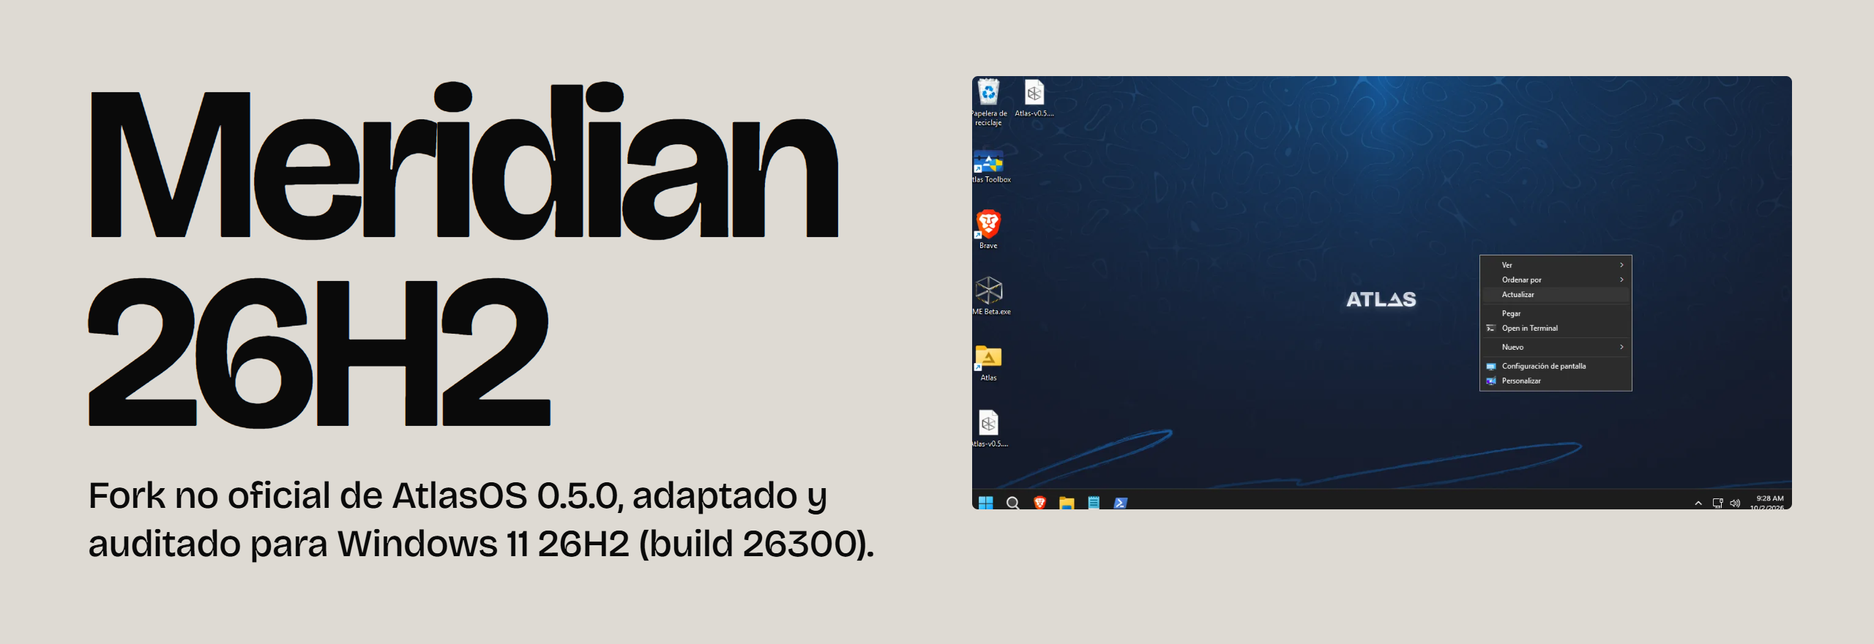
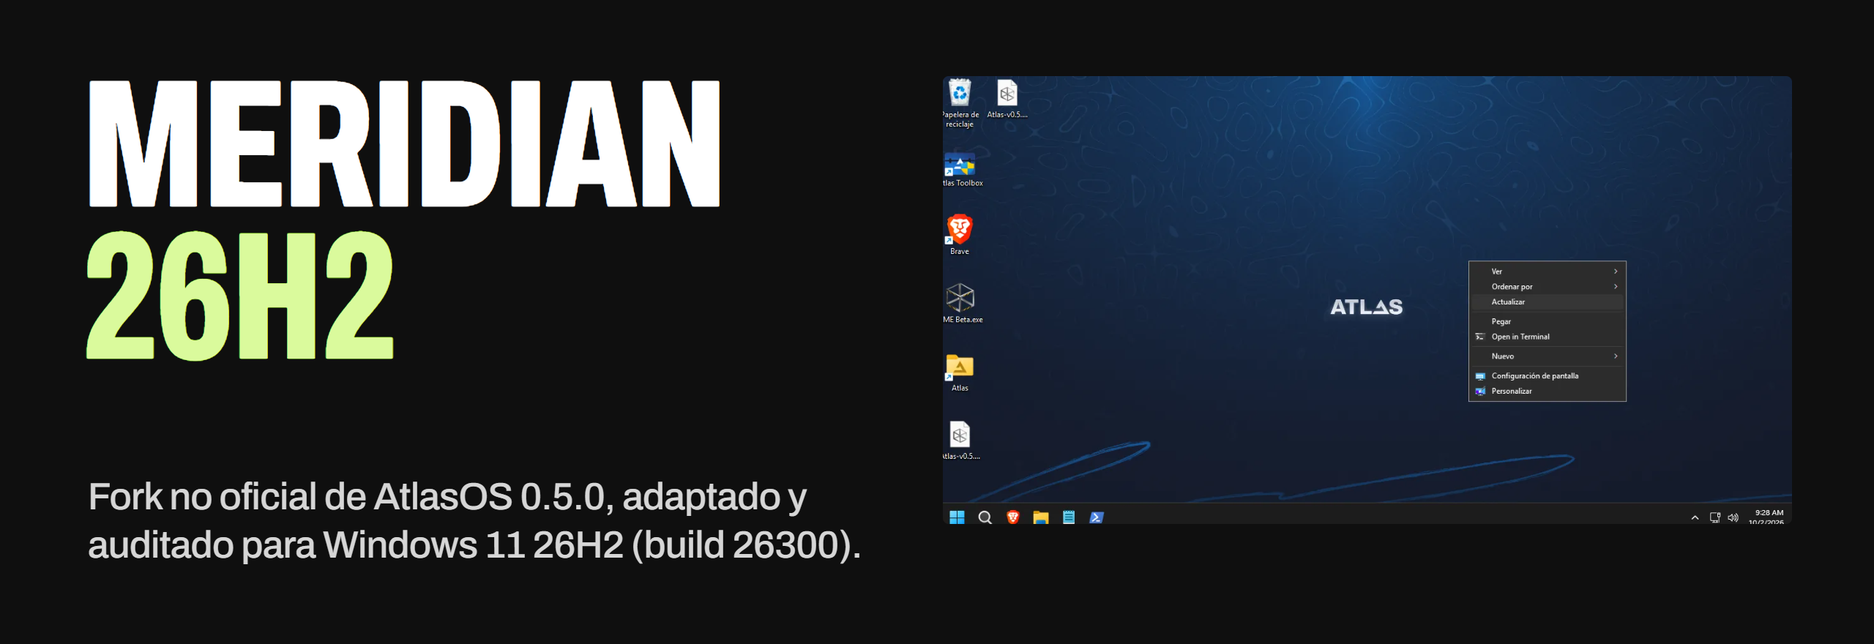
Web oscura y técnica, SEO, contador de descargas y problemas resueltos
- Diseño: paleta Soot and lime (negro, blanco y acento lima) y Archivo
  comprimida en los títulos, con taste-skill. Fragmentos de Windows en modo
  oscuro. Banner y vista previa social regenerados.
- SEO: título y descripción con palabras clave, canonical, Open Graph,
  Twitter Card, JSON-LD SoftwareApplication y FAQPage, sitemap.xml y
  robots.txt. README con palabras clave en español e inglés.
- Descargas: la web suma en vivo las descargas de los .apbx de todas las
  releases (API de GitHub); insignias de descargas y estrellas en el README.
- Problemas conocidos: se quitan F5-9 (CrossDevice), F3-10 (acceso directo
  de Copilot) y F3-9 (usuario estándar), resueltos según el autor.

diff --git a/docs/index.html b/docs/index.html
@@ -3,51 +3,70 @@
 <head>
 <meta charset="utf-8">
 <meta name="viewport" content="width=device-width, initial-scale=1">
-<title>Meridian 26H2 · fork no oficial de AtlasOS para Windows 11 26H2</title>
-<meta name="description" content="Meridian 26H2 es un fork no oficial de AtlasOS 0.5.0, adaptado y auditado para Windows 11 26H2 (build 26300). Rendimiento, privacidad y usabilidad con AME Wizard.">
-<meta property="og:title" content="Meridian 26H2">
-<meta property="og:description" content="Fork no oficial de AtlasOS 0.5.0 para Windows 11 26H2 (build 26300).">
-<meta property="og:image" content="https://zykmm.github.io/meridian-26h2/img/escritorio.webp">
-<meta name="theme-color" content="#dedad3">
+<title>Meridian 26H2: AtlasOS para Windows 11 26H2 · optimizar y debloat (fork no oficial)</title>
+<meta name="description" content="Meridian 26H2 es un fork no oficial de AtlasOS 0.5.0 para Windows 11 26H2 (build 26300). Playbook gratuito de AME Wizard que quita telemetría y bloatware, mejora el rendimiento en juegos y la privacidad. Código abierto, GPLv3.">
+<meta name="keywords" content="AtlasOS 26H2, Atlas OS Windows 11 26H2, Meridian 26H2, debloat Windows 11, optimizar Windows 11, Windows 11 26H2, build 26300, AME Wizard, playbook, privacidad, gaming, telemetría">
+<meta name="author" content="zykmm">
+<meta name="robots" content="index, follow, max-image-preview:large">
+<link rel="canonical" href="https://zykmm.github.io/meridian-26h2/">
+<meta property="og:type" content="website">
+<meta property="og:site_name" content="Meridian 26H2">
+<meta property="og:locale" content="es_ES">
+<meta property="og:url" content="https://zykmm.github.io/meridian-26h2/">
+<meta property="og:title" content="Meridian 26H2: AtlasOS para Windows 11 26H2">
+<meta property="og:description" content="Fork no oficial de AtlasOS 0.5.0 para Windows 11 26H2 (build 26300). Más rápido, más privado, con cada cambio explicado.">
+<meta property="og:image" content="https://zykmm.github.io/meridian-26h2/img/social-preview.png">
+<meta property="og:image:width" content="2560">
+<meta property="og:image:height" content="1280">
+<meta property="og:image:alt" content="Meridian 26H2: fork no oficial de AtlasOS 0.5.0 para Windows 11 26H2">
+<meta name="twitter:card" content="summary_large_image">
+<meta name="twitter:title" content="Meridian 26H2: AtlasOS para Windows 11 26H2">
+<meta name="twitter:description" content="Fork no oficial de AtlasOS 0.5.0 para Windows 11 26H2 (build 26300).">
+<meta name="twitter:image" content="https://zykmm.github.io/meridian-26h2/img/social-preview.png">
+<meta name="theme-color" content="#0f0f0f">
+<script type="application/ld+json">{"@context": "https://schema.org", "@type": "SoftwareApplication", "name": "Meridian 26H2", "alternateName": ["Meridian 26H2 AtlasOS fork", "AtlasOS 26H2 unofficial"], "description": "Fork no oficial de AtlasOS 0.5.0 para Windows 11 26H2 (build 26300): playbook de AME Wizard que optimiza el rendimiento, quita telemetría y bloatware y mejora la privacidad.", "applicationCategory": "UtilitiesApplication", "applicationSubCategory": "Windows optimization playbook", "operatingSystem": "Windows 11 26H2 (build 26300)", "softwareVersion": "1.0.0", "license": "https://www.gnu.org/licenses/gpl-3.0.html", "isAccessibleForFree": true, "offers": {"@type": "Offer", "price": "0", "priceCurrency": "USD"}, "url": "https://zykmm.github.io/meridian-26h2/", "downloadUrl": "https://github.com/zykmm/meridian-26h2/releases", "codeRepository": "https://github.com/zykmm/meridian-26h2", "image": "https://zykmm.github.io/meridian-26h2/img/social-preview.png", "screenshot": "https://zykmm.github.io/meridian-26h2/img/escritorio.webp", "author": {"@type": "Person", "name": "zykmm", "url": "https://github.com/zykmm"}, "isBasedOn": {"@type": "SoftwareSourceCode", "name": "AtlasOS", "codeRepository": "https://github.com/Atlas-OS/Atlas"}, "inLanguage": "es", "keywords": "AtlasOS, Windows 11 26H2, debloat, optimizar Windows 11, AME Wizard, playbook, privacidad, rendimiento, gaming"}</script>
+<script type="application/ld+json">{"@context": "https://schema.org", "@type": "FAQPage", "mainEntity": [{"@type": "Question", "name": "¿Es AtlasOS oficial?", "acceptedAnswer": {"@type": "Answer", "text": "No. Es un fork no oficial del playbook de AtlasOS 0.5.0, sin relación con el equipo de Atlas, adaptado y auditado para Windows 11 26H2 (build 26300). Usa su código bajo la licencia GPLv3."}}, {"@type": "Question", "name": "¿Tiene virus?", "acceptedAnswer": {"@type": "Answer", "text": "Todo el playbook es texto plano en el repositorio de GitHub y cada .apbx se compila a partir de él con GitHub Actions y se publica con su SHA256. Defender puede marcar Remove-Edge.exe por reputación; Meridian lo descarga fijado a una versión y comprueba su hash."}}, {"@type": "Question", "name": "¿Puedo volver atrás?", "acceptedAnswer": {"@type": "Answer", "text": "No hay desinstalador, igual que en AtlasOS. Muchas opciones se cambian después desde la carpeta Atlas o Atlas Toolbox, pero para volver a Windows sin modificar hay que reinstalarlo. Haz una copia de seguridad antes."}}, {"@type": "Question", "name": "¿Funciona en Windows 11 24H2 o 25H2?", "acceptedAnswer": {"@type": "Answer", "text": "No: el asistente solo acepta la build 26300 (Windows 11 26H2). Para 24H2 y 25H2 está el AtlasOS oficial."}}, {"@type": "Question", "name": "¿Qué contraseña pide el archivo .apbx?", "acceptedAnswer": {"@type": "Answer", "text": "Un .apbx es un ZIP renombrado con la contraseña malte, la de todos los playbooks de AME Wizard."}}]}</script>
 <link rel="preconnect" href="https://fonts.googleapis.com">
 <link rel="preconnect" href="https://fonts.gstatic.com" crossorigin>
-<link href="https://fonts.googleapis.com/css2?family=Bricolage+Grotesque:opsz,wght@12..96,400;12..96,500;12..96,600;12..96,700&display=swap" rel="stylesheet">
+<link href="https://fonts.googleapis.com/css2?family=Archivo:wdth,wght@62..125,100..900&display=swap" rel="stylesheet">
 <script>document.documentElement.classList.add('js')</script>
 <style>
 :root {
-  --bg: #dedad3;
-  --surface: #d3cec6;
-  --surface-2: #c6c0b6;
-  --ink: #0a0a0a;
-  --muted: #4f4b45;
-  --accent: #256f82;
-  --accent-ink: #ffffff;
-  --dark: #0a0a0a;
-  --dark-ink: #ededeb;
-  --light: #e9e9e6;
+  --bg: #0f0f0f;
+  --surface: #1a1a1a;
+  --surface-2: #262626;
+  --ink: #ffffff;
+  --muted: #a3a3a3;
+  --accent: #dafa9c;
+  --accent-2: #c6ef74;
+  --accent-ink: #0f0f0f;
+  --dark: #000000;
+  --dark-ink: #f2f2f2;
+  --light: #ffffff;
+  --light-ink: #0f0f0f;
 
   --step-small: clamp(0.875rem, 0.85rem + 0.1vw, 0.9375rem);
   --step-body: clamp(1.0625rem, 1rem + 0.25vw, 1.1875rem);
   --step-lead: clamp(1.375rem, 1.15rem + 0.8vw, 1.875rem);
-  --step-head: clamp(2.25rem, 1.2rem + 3.6vw, 4.5rem);
+  --step-head: clamp(2.5rem, 1.2rem + 5vw, 5.5rem);
   --step-giant: clamp(6rem, 2rem + 13vw, 14rem);
 
   --margin: clamp(16px, 2.2vw, 32px);
   --gap-section: clamp(120px, 14vw, 200px);
   --radius: 4px;
   --ease: cubic-bezier(.2, .7, .2, 1);
-  --font: "Bricolage Grotesque", system-ui, sans-serif;
+  --font: "Archivo", system-ui, sans-serif;
 }
 *, *::before, *::after { box-sizing: border-box; }
 html { -webkit-text-size-adjust: 100%; scroll-behavior: smooth; }
 body {
   margin: 0; background: var(--bg); color: var(--ink);
   font-family: var(--font); font-size: var(--step-body); line-height: 1.5;
-  font-optical-sizing: auto;
+  font-stretch: 100%;
 }
 img { display: block; max-width: 100%; height: auto; }
 a { color: inherit; }
-h1, h2, h3 { margin: 0; font-weight: 600; letter-spacing: -0.035em; line-height: 0.98; }
+h1, h2, h3, .display { margin: 0; font-weight: 800; font-stretch: 62%; text-transform: uppercase; letter-spacing: -0.01em; line-height: 0.86; }
 p { margin: 0; }
 :focus-visible { outline: 3px solid var(--accent); outline-offset: 3px; }
 ::selection { background: var(--accent); color: var(--accent-ink); }
@@ -58,7 +77,7 @@ p { margin: 0; }
   border-radius: var(--radius); border: 0; font: inherit; font-weight: 500; cursor: pointer;
   transition: transform 160ms var(--ease), background-color 160ms var(--ease);
 }
-.button:hover { background: #1d5a6a; }
+.button:hover { background: var(--accent-2); }
 .button:active { transform: scale(.97); }
 .skip { position: absolute; left: -999px; top: 8px; }
 .skip:focus { left: 8px; z-index: 50; background: var(--ink); color: var(--bg); padding: 8px 12px; }
@@ -68,7 +87,7 @@ p { margin: 0; }
   position: fixed; inset: 0 0 auto 0; z-index: 30; display: flex; align-items: center; gap: 24px;
   padding: 14px var(--margin); font-size: 15px; background: var(--bg);
 }
-.wordmark { font-weight: 700; font-size: 18px; letter-spacing: -0.02em; text-decoration: none; margin-right: auto; }
+.wordmark { font-weight: 800; font-stretch: 62%; text-transform: uppercase; font-size: 22px; letter-spacing: 0; text-decoration: none; margin-right: auto; }
 .bar nav { display: flex; gap: 22px; }
 .bar nav a { text-decoration: none; padding: 10px 0; }
 .bar nav a:hover { text-decoration: underline; text-underline-offset: 4px; }
@@ -77,8 +96,8 @@ p { margin: 0; }
 /* ---------- hero: sentence split by a frame ---------- */
 .hero { position: relative; height: 240svh; }
 .hero-stage { position: sticky; top: 0; height: 100svh; overflow: hidden; }
-.hero h1 { font-size: clamp(2.25rem, 3.6vw, 3.75rem); font-weight: 500; line-height: 1; }
-.hero h1 { position: absolute; left: var(--margin); right: var(--margin); top: 50%; transform: translateY(-50%); z-index: 2; display: flex; justify-content: space-between; gap: 40vw; }
+.hero h1 { font-size: clamp(2.75rem, 5.4vw, 6rem); line-height: .86; }
+.hero h1 { position: absolute; left: var(--margin); right: var(--margin); top: 50%; transform: translateY(-50%); z-index: 2; display: flex; justify-content: space-between; gap: 38vw; }
 .hero .h-right { text-align: right; }
 .reel-window { position: absolute; inset: 0; left: 50%; width: 35vw; transform: translateX(-50%); }
 .reel { position: absolute; left: 0; right: 0; top: 0; display: flex; flex-direction: column; gap: 24px; will-change: transform; }
@@ -92,7 +111,7 @@ p { margin: 0; }
 /* ---------- intro ---------- */
 .intro { display: grid; grid-template-columns: repeat(12, 1fr); column-gap: 24px; padding: var(--gap-section) var(--margin) 0; align-items: start; }
 .intro-text { grid-column: 2 / span 4; display: grid; gap: 1.1em; max-width: 34ch; }
-.intro-text h2 { font-size: var(--step-lead); letter-spacing: -0.02em; line-height: 1.1; margin-bottom: .4em; }
+.intro-text h2 { font-size: var(--step-lead); margin-bottom: .3em; }
 .intro-text p:first-of-type { font-weight: 500; }
 .intro-text p + p { color: var(--muted); }
 .intro-figure { grid-column: 7 / span 6; margin: 0; }
@@ -114,15 +133,15 @@ p { margin: 0; }
 .cmd-item {
   display: grid; grid-template-columns: 1fr auto; align-items: center; column-gap: 24px;
   padding: .12em .25em; cursor: pointer; border-radius: var(--radius);
-  font-size: clamp(2rem, 1rem + 3.6vw, 4.5rem); font-weight: 600; letter-spacing: -0.035em; line-height: 1.1;
+  font-size: var(--step-head); font-weight: 800; font-stretch: 62%; text-transform: uppercase; letter-spacing: -0.005em; line-height: 1;
   transition: background-color 140ms var(--ease), color 140ms var(--ease);
 }
 .cmd-item:hover { background: var(--surface); }
 .cmd-item[aria-selected="true"] { background: var(--accent); color: var(--accent-ink); }
-.cmd-keys { display: flex; gap: 6px; font-size: var(--step-body); font-weight: 500; letter-spacing: 0; }
+.cmd-keys { display: flex; gap: 6px; font-size: var(--step-body); font-weight: 600; font-stretch: 100%; letter-spacing: 0; }
 .cmd-keys kbd { font-family: var(--font); display: grid; place-items: center; min-width: 1.6em; height: 1.6em; padding: 0 .25em; background: var(--surface-2); color: var(--ink); border-radius: 3px; }
-.cmd-item[aria-selected="true"] kbd { background: #1d5a6a; color: var(--accent-ink); }
-.cmd-detail { grid-column: 1 / -1; display: none; max-width: 60ch; margin: .4em 0 .35em; font-size: var(--step-body); font-weight: 400; letter-spacing: 0; line-height: 1.5; }
+.cmd-item[aria-selected="true"] kbd { background: #b8e26a; color: var(--accent-ink); }
+.cmd-detail { grid-column: 1 / -1; display: none; max-width: 60ch; margin: .4em 0 .35em; font-size: var(--step-body); font-weight: 400; font-stretch: 100%; text-transform: none; letter-spacing: 0; line-height: 1.5; }
 .cmd-item[aria-selected="true"] .cmd-detail { display: block; }
 .cmd-empty { font-size: var(--step-lead); padding: .5em .25em; }
 .cmd-more { margin-top: 28px; font-size: var(--step-body); }
@@ -131,8 +150,8 @@ p { margin: 0; }
 .showcase { display: grid; grid-template-columns: minmax(0, 1fr) minmax(0, 1fr); margin-top: var(--gap-section); }
 .sc-in, .sc-out { position: relative; min-height: 90svh; padding: 30svh var(--margin) 140px; }
 .sc-in { background: var(--dark); color: var(--dark-ink); }
-.sc-out { background: var(--light); }
-.sc-in .file { overflow-wrap: anywhere; font-size: var(--step-small); color: #b9b4ac; margin-bottom: 12px; padding-left: calc(100% / 12); }
+.sc-out { background: var(--light); color: var(--light-ink); }
+.sc-in .file { overflow-wrap: anywhere; font-size: var(--step-small); color: #a3a3a3; margin-bottom: 12px; padding-left: calc(100% / 12); }
 .sc-in textarea {
   display: block; width: calc(100% - 100% / 12); margin-left: calc(100% / 12); min-height: 300px; resize: vertical;
   background: transparent; color: var(--dark-ink); border: 0; padding: 0; font-family: ui-monospace, Consolas, monospace; /* taste-skill-ignore: data-ui fragment / literal code */
@@ -142,51 +161,51 @@ p { margin: 0; }
 .sc-title { position: absolute; bottom: 32px; font-size: var(--step-head); }
 .sc-in .sc-title { left: var(--margin); }
 .sc-out .sc-title { right: var(--margin); text-align: right; }
-.regedit { width: min(100%, 520px); font: 14px/1.4 "Segoe UI", system-ui, sans-serif; background: #ffffff; color: #1b1b1b; border: 1px solid #c9c9c9; border-radius: 6px; overflow: hidden; } /* taste-skill-ignore: data-ui fragment / literal code */
-.regedit .re-path { padding: 8px 12px; background: #f3f3f3; border-bottom: 1px solid #dcdcdc; word-break: break-all; } /* taste-skill-ignore: data-ui fragment / literal code */
+.regedit { width: min(100%, 520px); font: 14px/1.4 "Segoe UI", system-ui, sans-serif; background: #202020; color: #f0f0f0; border: 1px solid #3a3a3a; border-radius: 6px; overflow: hidden; } /* taste-skill-ignore: data-ui fragment / literal code */
+.regedit .re-path { padding: 8px 12px; background: #2b2b2b; border-bottom: 1px solid #3a3a3a; word-break: break-all; } /* taste-skill-ignore: data-ui fragment / literal code */
 .regedit table { width: 100%; border-collapse: collapse; }
 .regedit th, .regedit td { text-align: left; padding: 7px 12px; font-weight: 400; }
-.regedit th { color: #5e5e5e; border-bottom: 1px solid #e5e5e5; font-size: 13px; } /* taste-skill-ignore: data-ui fragment / literal code */
-.regedit tr.hl td { background: #cfe3ea; }
+.regedit th { color: #a0a0a0; border-bottom: 1px solid #333333; font-size: 13px; } /* taste-skill-ignore: data-ui fragment / literal code */
+.regedit tr.hl td { background: #0e3a55; }
 .regedit + .regedit { margin-top: 16px; }
-.re-empty { padding: 14px 12px; color: #8a1c1c; }
+.re-empty { padding: 14px 12px; color: #ff9a8a; }
 
 /* ---------- how it works: one card, four fields ---------- */
 .how { display: grid; grid-template-columns: repeat(4, 1fr); margin-top: 0; }
 .how ol { display: contents; list-style: none; }
 .field { position: relative; min-height: 84svh; padding: var(--margin); }
 .field:nth-child(1) { background: var(--surface); }
-.field:nth-child(2) { background: #b9b2a6; }
-.field:nth-child(3) { background: #3b3834; color: var(--dark-ink); }
+.field:nth-child(2) { background: var(--light); color: var(--light-ink); }
+.field:nth-child(3) { background: var(--dark); color: var(--dark-ink); }
 .field:nth-child(4) { background: var(--accent); color: var(--accent-ink); }
-.how h2 { font-size: var(--step-lead); font-weight: 700; letter-spacing: -0.02em; line-height: 1.1; }
+.how h2 { font-size: var(--step-lead); }
 .how-card {
   position: absolute; top: 38%; left: 50%; width: min(260px, calc(100% - 2 * var(--margin))); transform: translateX(-50%);
-  font: 14px/1.45 "Segoe UI", system-ui, sans-serif; background: #fbfaf8; color: #1b1b1b; border: 1px solid #cfcac2; border-radius: 6px; padding: 14px; /* taste-skill-ignore: data-ui fragment / literal code */
+  font: 14px/1.45 "Segoe UI", system-ui, sans-serif; background: #2b2b2b; color: #f3f3f3; border: 1px solid #3d3d3d; border-radius: 6px; padding: 14px; /* taste-skill-ignore: data-ui fragment / literal code */
   transition: transform 150ms var(--ease);
 }
 .field:hover .how-card { transform: translate(-50%, -6px); }
 .how-card b { display: block; font-weight: 600; margin-bottom: 6px; word-break: break-word; }
 .how-card ul { list-style: none; margin: 0; padding: 0; display: grid; gap: 4px; }
 .how-card li { display: flex; justify-content: space-between; gap: 8px; }
-.how-card .ok { color: #1a7f37; }
-.how-card .meta { color: #5e5e5e; }
-.how-card .bar-p { height: 6px; background: #e6e2dc; border-radius: 3px; margin: 10px 0 6px; overflow: hidden; }
-.how-card .bar-p i { display: block; height: 100%; width: 100%; background: #1a7f37; }
+.how-card .ok { color: #6ccb5f; }
+.how-card .meta { color: #a6a6a6; }
+.how-card .bar-p { height: 6px; background: #3d3d3d; border-radius: 3px; margin: 10px 0 6px; overflow: hidden; }
+.how-card .bar-p i { display: block; height: 100%; width: 100%; background: #6ccb5f; }
 .clause { position: absolute; left: var(--margin); right: var(--margin); bottom: 28px; font-size: var(--step-lead); line-height: 1.15; letter-spacing: -0.02em; font-weight: 500; }
 
 /* ---------- stats: figure set by the visitor ---------- */
 .stats { position: relative; min-height: 88svh; padding: var(--gap-section) var(--margin) 48px; display: grid; grid-template-columns: repeat(12, 1fr); column-gap: 24px; grid-template-rows: auto auto 1fr auto; }
 .stats h2 { grid-column: 1 / span 7; font-size: var(--step-head); }
-.build-ctl { grid-column: 1 / span 5; margin-top: 28px; width: min(100%, 400px); font: 15px/1.4 "Segoe UI", system-ui, sans-serif; background: #fbfaf8; border: 1px solid #cfcac2; border-radius: 6px; padding: 14px; } /* taste-skill-ignore: data-ui fragment / literal code */
-.build-ctl label { display: block; margin-bottom: 8px; color: #3a3a3a; }
-.build-ctl input { width: 100%; height: 44px; font: 600 20px "Segoe UI", system-ui, sans-serif; padding: 0 12px; border: 1px solid #b9b4ac; border-radius: 4px; background: #fff; color: #111; } /* taste-skill-ignore: data-ui fragment / literal code */
+.build-ctl { grid-column: 1 / span 5; margin-top: 28px; width: min(100%, 400px); font: 15px/1.4 "Segoe UI", system-ui, sans-serif; background: #202020; color: #f0f0f0; border: 1px solid #3a3a3a; border-radius: 6px; padding: 14px; } /* taste-skill-ignore: data-ui fragment / literal code */
+.build-ctl label { display: block; margin-bottom: 8px; color: #c8c8c8; }
+.build-ctl input { width: 100%; height: 44px; font: 600 20px "Segoe UI", system-ui, sans-serif; padding: 0 12px; border: 1px solid #4a4a4a; border-bottom: 2px solid var(--accent); border-radius: 4px; background: #2b2b2b; color: #ffffff; } /* taste-skill-ignore: data-ui fragment / literal code */
 .reqs { grid-column: 8 / span 5; grid-row: 1 / span 2; align-self: start; margin: 0; padding: 0; list-style: none; display: grid; gap: 4px; max-width: 46ch; }
 .reqs li { padding: 0 0 14px; }
 .reqs b { font-weight: 500; }
-.figure { grid-column: 1 / span 8; grid-row: 4; align-self: end; display: flex; align-items: baseline; gap: .12em; font-size: var(--step-giant); font-weight: 700; line-height: .8; letter-spacing: -0.05em; font-variant-numeric: tabular-nums; }
-.figure small { font-size: var(--step-lead); letter-spacing: -0.01em; font-weight: 600; }
-.figure.no { color: #8a1c1c; }
+.figure { grid-column: 1 / span 8; grid-row: 4; align-self: end; display: flex; align-items: baseline; gap: .12em; font-size: var(--step-giant); font-weight: 800; font-stretch: 62%; line-height: .8; letter-spacing: -0.01em; font-variant-numeric: tabular-nums; }
+.figure small { font-size: var(--step-lead); text-transform: uppercase; letter-spacing: 0; font-weight: 800; color: var(--accent); }
+.figure.no, .figure.no small { color: #ff7a66; }
 .verdict { grid-column: 9 / span 4; grid-row: 4; align-self: end; max-width: 32ch; }
 
 /* ---------- faq ---------- */
@@ -210,19 +229,19 @@ p { margin: 0; }
 .foot { display: grid; grid-template-columns: repeat(12, 1fr); gap: 8px; padding: var(--gap-section) 10px 10px; }
 .tile { background: var(--surface); border-radius: var(--radius); padding: 20px; min-height: 220px; position: relative; }
 .t-statement { grid-column: 1 / span 4; display: flex; flex-direction: column; justify-content: space-between; gap: 24px; }
-.t-claim { font-size: var(--step-lead); font-weight: 400; line-height: 1.2; letter-spacing: -0.015em; }
+.t-claim { font-size: var(--step-lead); line-height: .95; }
 .t-statement .legal { font-size: var(--step-small); color: var(--muted); display: grid; gap: .5em; }
 .t-nav { grid-column: 5 / span 3; }
 .t-nav ul { list-style: none; margin: 0; padding: 0; display: grid; gap: 6px; }
 .t-nav a, .t-mail a { text-decoration: none; }
 .t-nav a:hover, .t-mail a:hover { text-decoration: underline; text-underline-offset: 4px; }
 .t-ver { grid-column: 8 / span 2; display: flex; flex-direction: column; justify-content: space-between; }
-.t-ver p:first-child { font-size: var(--step-lead); letter-spacing: -0.015em; }
+.t-ver p:first-child { font-size: var(--step-lead); font-weight: 800; font-stretch: 62%; text-transform: uppercase; }
 .t-mail { grid-column: 10 / span 3; display: flex; flex-direction: column; justify-content: flex-end; }
 .t-word { grid-column: 1 / span 8; min-height: 320px; background: var(--ink); color: var(--bg); display: grid; place-items: center; }
-.t-word p { font-size: var(--step-giant); font-weight: 700; letter-spacing: -0.05em; line-height: .85; text-align: center; }
-.t-go { grid-column: 9 / span 4; min-height: 320px; background: var(--accent); color: var(--accent-ink); text-decoration: none; font-size: var(--step-lead); font-weight: 500; letter-spacing: -0.02em; line-height: 1.1; transition: background-color 160ms var(--ease); }
-.t-go:hover { background: #1d5a6a; }
+.t-word p { font-size: var(--step-giant); font-weight: 800; font-stretch: 62%; text-transform: uppercase; letter-spacing: -0.01em; line-height: .85; text-align: center; }
+.t-go { grid-column: 9 / span 4; min-height: 320px; background: var(--accent); color: var(--accent-ink); text-decoration: none; font-size: var(--step-lead); font-weight: 800; font-stretch: 62%; text-transform: uppercase; line-height: .95; transition: background-color 160ms var(--ease); }
+.t-go:hover { background: var(--accent-2); }
 .t-go svg { position: absolute; right: 20px; bottom: 20px; width: 64px; height: 64px; transition: transform 200ms var(--ease); }
 .t-go:hover svg { transform: translate(4px, -4px); }
 
@@ -242,7 +261,7 @@ p { margin: 0; }
   .bar nav { display: none; }
   .hero { height: auto; }
   .hero-stage { position: relative; height: auto; overflow: visible; padding: 96px var(--margin) 56px; }
-  .hero h1 { position: static; transform: none; display: block; font-size: clamp(2.25rem, 7vw, 4rem); font-weight: 600; }
+  .hero h1 { position: static; transform: none; display: block; font-size: clamp(2.75rem, 10vw, 5.5rem); }
   .hero h1 span { display: block; }
   .hero .h-right { margin-top: 20px; }
   .reel-window { position: relative; left: auto; width: auto; transform: none; margin-top: 20px; }
@@ -422,7 +441,7 @@ p { margin: 0; }
   </div>
   <div class="sc-out">
     <div id="regout" data-ui aria-live="polite"></div>
-    <p class="sc-title" aria-hidden="true" style="font-weight:600;letter-spacing:-0.035em;line-height:.98">es lo que aplica</p>
+    <p class="sc-title display" aria-hidden="true">es lo que aplica</p>
   </div>
 </section>
 
@@ -507,7 +526,7 @@ p { margin: 0; }
     </details>
     <details name="faq">
       <summary>¿Tiene virus?<span class="plus" aria-hidden="true"></span></summary>
-      <div class="answer"><p>Todo el playbook es texto plano en este repositorio y cada <code>.apbx</code> se compila a partir de él. Cada release publica su SHA256.</p><p>Un aviso honesto: Defender puede marcar <code>Remove-Edge.exe</code> como <code>Trojan:Win32/Yomal!rfn</code>. Es una detección por reputación típica de los ejecutables PyInstaller. Meridian lo descarga fijado a una versión y comprueba su hash antes de ejecutarlo.</p></div>
+      <div class="answer"><p>Todo el playbook es texto plano en este repositorio, y GitHub Actions compila cada versión a partir de él. Cada release publica su SHA256.</p><p>Un aviso honesto: Defender puede marcar <code>Remove-Edge.exe</code> como <code>Trojan:Win32/Yomal!rfn</code>. Es una detección por reputación típica de los ejecutables PyInstaller. Meridian lo descarga fijado a una versión y comprueba su hash antes de ejecutarlo.</p></div>
     </details>
     <details name="faq">
       <summary>¿Puedo volver atrás?<span class="plus" aria-hidden="true"></span></summary>
@@ -523,7 +542,7 @@ p { margin: 0; }
     </details>
     <details name="faq">
       <summary>¿Hay problemas conocidos?<span class="plus" aria-hidden="true"></span></summary>
-      <div class="answer"><p>Sí, y están apuntados: Windows puede reinstalar CrossDevice en un segundo reinicio; el acceso directo de Copilot en la barra puede volver tras otro arranque; con una cuenta de usuario estándar, el script de usuarios nuevos pide elevación; y Atlas Toolbox 0.1.13 tiene fallos propios en algunos estados.</p></div>
+      <div class="answer"><p>Uno, y no es de Meridian: Atlas Toolbox 0.1.13 tiene fallos propios al mostrar algunos estados (Terminals, Mitigations, indexación). Lo que aplica el playbook es correcto.</p><p>El otro aviso es el de Defender con <code>Remove-Edge.exe</code>, explicado en «¿Tiene virus?».</p></div>
     </details>
     <details name="faq">
       <summary>¿Dónde reporto un error?<span class="plus" aria-hidden="true"></span></summary>
@@ -552,7 +571,7 @@ p { margin: 0; }
   </nav>
   <div class="tile t-ver">
     <p>v1.0.0</p>
-    <p>Build 26300<br>Base: AtlasOS 0.5.0</p>
+    <p>Build 26300<br>Base: AtlasOS 0.5.0<br><span id="dl-count" hidden></span></p>
   </div>
   <div class="tile t-mail">
     <a href="https://github.com/zykmm/meridian-26h2/issues">github.com/zykmm/<wbr>meridian-26h2/issues</a>
@@ -653,6 +672,17 @@ p { margin: 0; }
     ver.textContent = msg;
   }
   b.addEventListener('input', check); check();
+
+  /* downloads: sum of .apbx downloads across all releases (GitHub API) */
+  fetch('https://api.github.com/repos/zykmm/meridian-26h2/releases?per_page=100')
+    .then(r => r.ok ? r.json() : Promise.reject())
+    .then(rs => {
+      const n = rs.flatMap(r => r.assets).filter(a => a.name.endsWith('.apbx')).reduce((s, a) => s + a.download_count, 0);
+      const el = document.getElementById('dl-count');
+      el.textContent = n.toLocaleString('es') + (n === 1 ? ' descarga' : ' descargas');
+      el.hidden = false;
+    })
+    .catch(() => {});
 
   /* entrances */
   const targets = document.querySelectorAll('[data-rise], .field, .faq details, .tile');

diff --git a/docs/banner.html b/docs/banner.html
@@ -1,14 +1,14 @@
 <!DOCTYPE html><html><head><meta charset="utf-8">
-<link href="https://fonts.googleapis.com/css2?family=Bricolage+Grotesque:opsz,wght@12..96,500;12..96,700&display=swap" rel="stylesheet">
+<link href="https://fonts.googleapis.com/css2?family=Archivo:wdth,wght@62..125,100..900&display=swap" rel="stylesheet">
 <style>
 html,body{margin:0}
-body{width:1280px;height:var(--h);background:#dedad3;color:#0a0a0a;font-family:"Bricolage Grotesque",sans-serif;overflow:hidden;position:relative}
-.name{position:absolute;left:56px;top:var(--nt);font-size:var(--ns);font-weight:700;letter-spacing:-0.05em;line-height:.86;margin:0}
-.sub{position:absolute;left:60px;bottom:52px;font-size:26px;font-weight:500;letter-spacing:-0.015em;line-height:1.25;margin:0;max-width:560px}
+body{width:1280px;height:var(--h);background:#0f0f0f;color:#ffffff;font-family:"Archivo",sans-serif;overflow:hidden;position:relative}
+.name{position:absolute;left:56px;top:var(--nt);font-size:var(--ns);font-weight:800;font-stretch:62%;font-variation-settings:"wdth" 62;text-transform:uppercase;letter-spacing:-0.01em;line-height:.84;margin:0}.name span{color:#dafa9c}
+.sub{position:absolute;left:60px;bottom:52px;font-size:26px;font-weight:500;color:#d6d6d6;letter-spacing:-0.015em;line-height:1.25;margin:0;max-width:560px}
 .shot{position:absolute;right:56px;top:var(--st);width:var(--sw);border-radius:4px;display:block}
 .tag{display:var(--tagd,inline-block);position:absolute;right:56px;bottom:52px;background:#256f82;color:#fff;font-size:22px;font-weight:500;padding:10px 16px;border-radius:4px}
 </style></head><body>
-<p class="name">Meridian<br>26H2</p>
+<p class="name">Meridian<br><span>26H2</span></p>
 <p class="sub">Fork no oficial de AtlasOS 0.5.0, adaptado y auditado para Windows 11 26H2 (build 26300).</p>
 <img class="shot" src="img/escritorio.webp" alt="">
 <span class="tag">build 26300</span>

diff --git a/README.md b/README.md
@@ -1,10 +1,12 @@
 <p align="center">
-  <a href="https://zykmm.github.io/meridian-26h2/"><img src="docs/img/banner.png" alt="Meridian 26H2: fork no oficial de AtlasOS 0.5.0, adaptado y auditado para Windows 11 26H2 (build 26300)" width="100%"></a>
+  <a href="https://zykmm.github.io/meridian-26h2/"><img src="docs/img/banner.png" alt="Meridian 26H2: AtlasOS para Windows 11 26H2 (build 26300), fork no oficial para optimizar y hacer debloat de Windows 11" width="100%"></a>
 </p>
 
 <p align="center">
   <a href="https://github.com/zykmm/meridian-26h2/releases"><img alt="Última versión" src="https://img.shields.io/github/v/release/zykmm/meridian-26h2?include_prereleases&style=flat-square&label=versi%C3%B3n&color=256f82"></a>
   <a href="https://github.com/zykmm/meridian-26h2/actions/workflows/build.yml"><img alt="Compilación" src="https://img.shields.io/github/actions/workflow/status/zykmm/meridian-26h2/build.yml?style=flat-square&label=compilaci%C3%B3n"></a>
+  <a href="https://github.com/zykmm/meridian-26h2/releases"><img alt="Descargas" src="https://img.shields.io/github/downloads/zykmm/meridian-26h2/total?style=flat-square&label=descargas&color=dafa9c&labelColor=0f0f0f"></a>
+  <a href="https://github.com/zykmm/meridian-26h2/stargazers"><img alt="Estrellas" src="https://img.shields.io/github/stars/zykmm/meridian-26h2?style=flat-square&label=estrellas&color=0f0f0f"></a>
   <img alt="Windows 11 26H2" src="https://img.shields.io/badge/Windows%2011-26H2%20%C2%B7%20build%2026300-0a0a0a?style=flat-square">
   <a href="LICENSE"><img alt="Licencia GPLv3" src="https://img.shields.io/badge/licencia-GPLv3-0a0a0a?style=flat-square"></a>
 </p>
@@ -20,6 +22,8 @@
 > **Meridian 26H2 es un fork NO oficial de [AtlasOS](https://github.com/Atlas-OS/Atlas).** No pertenece al equipo de Atlas ni está respaldado por él. Los errores de Meridian se reportan [aquí](https://github.com/zykmm/meridian-26h2/issues), nunca a Atlas. Si usas Windows 11 24H2 o 25H2, instala el [AtlasOS oficial](https://atlasos.net).
 
 ## Qué es
+
+**Meridian 26H2 es la forma de usar AtlasOS en Windows 11 26H2.** Sirve para optimizar Windows 11, quitar bloatware y telemetría (*debloat*), ganar rendimiento en juegos y mejorar la privacidad, sin reinstalar el sistema.
 
 AtlasOS 0.5.0 se publicó para Windows 11 24H2 y 25H2. **Meridian 26H2** toma ese playbook (commit [`6c26aab`](https://github.com/Atlas-OS/Atlas/commit/6c26aab)) y lo lleva a **Windows 11 26H2 (build 26300)**, con la misma idea: más rendimiento, más privacidad y menos molestias, sin romper lo que hace falta.
 
@@ -70,9 +74,6 @@ powershell -NoProfile -ExecutionPolicy Bypass -File .\verificar-26h2.ps1 -Nombre
 
 ## Problemas conocidos
 
-- **CrossDevice puede volver.** Windows lo reinstala en algunos equipos tras un segundo reinicio (F5-9).
-- **El acceso directo de Copilot en la barra de tareas** puede reaparecer tras otro arranque (F3-10).
-- **Usuario estándar:** al crear una cuenta sin permisos de administrador, el script de usuarios nuevos pide elevación (F3-9).
 - **Atlas Toolbox 0.1.13** tiene fallos propios al mostrar algunos estados (Terminals, Mitigations, indexación). No son del playbook (F5-2).
 - **Defender y `Remove-Edge.exe`:** Defender puede detectarlo como `Trojan:Win32/Yomal!rfn`, una detección por reputación habitual en ejecutables PyInstaller. Durante la instalación no afecta. Si después ejecutas «Remove Edge» desde la carpeta Atlas con Defender activo, puede fallar. Meridian descarga la versión 2.3 y comprueba su SHA256 antes de ejecutarla.
 
@@ -133,7 +134,7 @@ Meridian 26H2 se distribuye bajo la **[GNU GPLv3](LICENSE)**, la misma licencia 
 <details>
 <summary><b>English</b></summary>
 
-**Meridian 26H2 is an UNOFFICIAL fork of the [AtlasOS](https://github.com/Atlas-OS/Atlas) 0.5.0 playbook**, adapted and audited for **Windows 11 26H2 (build 26300)**. It is not affiliated with or endorsed by the Atlas team. Please report Meridian issues [here](https://github.com/zykmm/meridian-26h2/issues), never to Atlas. On 24H2 or 25H2, use the official AtlasOS.
+**Meridian 26H2 is an UNOFFICIAL fork of the [AtlasOS](https://github.com/Atlas-OS/Atlas) 0.5.0 playbook**, adapted and audited for **Windows 11 26H2 (build 26300)**. Use it to run AtlasOS-style optimizations on Windows 11 26H2: debloat Windows 11, remove telemetry, Copilot and Edge, improve gaming performance and privacy, with every change documented. It is not affiliated with or endorsed by the Atlas team. Please report Meridian issues [here](https://github.com/zykmm/meridian-26h2/issues), never to Atlas. On 24H2 or 25H2, use the official AtlasOS.
 
 Download the `.apbx` from [Releases](https://github.com/zykmm/meridian-26h2/releases), verify its SHA256, and drop it into [AME Wizard](https://ameliorated.io). Every change from AtlasOS 0.5.0 and the reason for it is listed (in Spanish) in [`CAMBIOS-26H2.md`](CAMBIOS-26H2.md). License: GPLv3.
 </details>

diff --git a/.github/RELEASE_NOTES.md b/.github/RELEASE_NOTES.md
@@ -13,4 +13,4 @@ Windows 11 26H2 (build 26300) actualizado, la última versión de AME Wizard, In
 Adaptación a 26H2 con 79 cambios documentados: Widgets y navegador tras el reinicio (UCPD), un bloqueo de versión que funciona, Edge fijado y comprobado con SHA256, Copilot sin restos, reglas de firewall independientes del idioma, apps nuevas de 26H2, opciones del asistente respetadas y estados coherentes con Atlas Toolbox. Lista completa en [`CAMBIOS-26H2.md`](https://github.com/zykmm/meridian-26h2/blob/main/CAMBIOS-26H2.md).
 
 ### Problemas conocidos
-CrossDevice puede reinstalarse tras un segundo reinicio; el acceso directo de Copilot puede volver a la barra de tareas; con un usuario estándar, el script de usuarios nuevos pide elevación; Atlas Toolbox 0.1.13 tiene fallos propios. Detalles en el [README](https://github.com/zykmm/meridian-26h2#problemas-conocidos).
+Atlas Toolbox 0.1.13 tiene fallos propios al mostrar algunos estados, y Defender puede marcar `Remove-Edge.exe` por reputación. Detalles en el [README](https://github.com/zykmm/meridian-26h2#problemas-conocidos).
